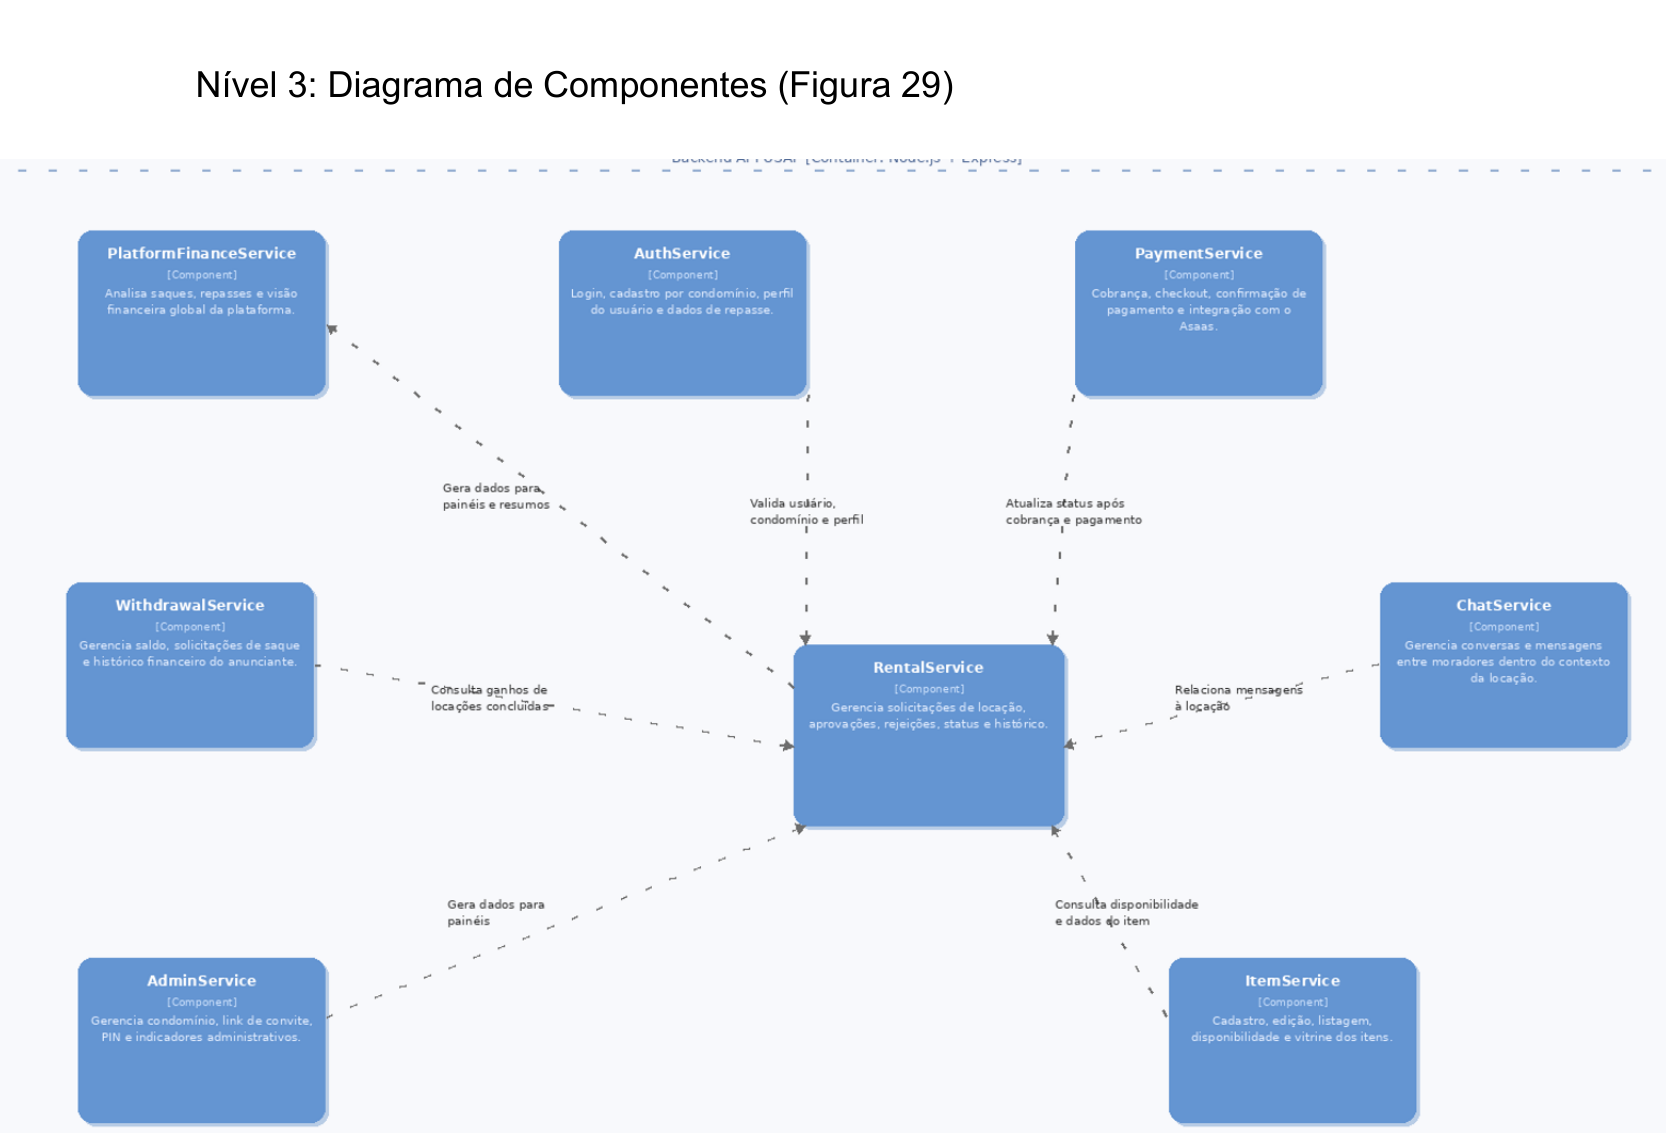
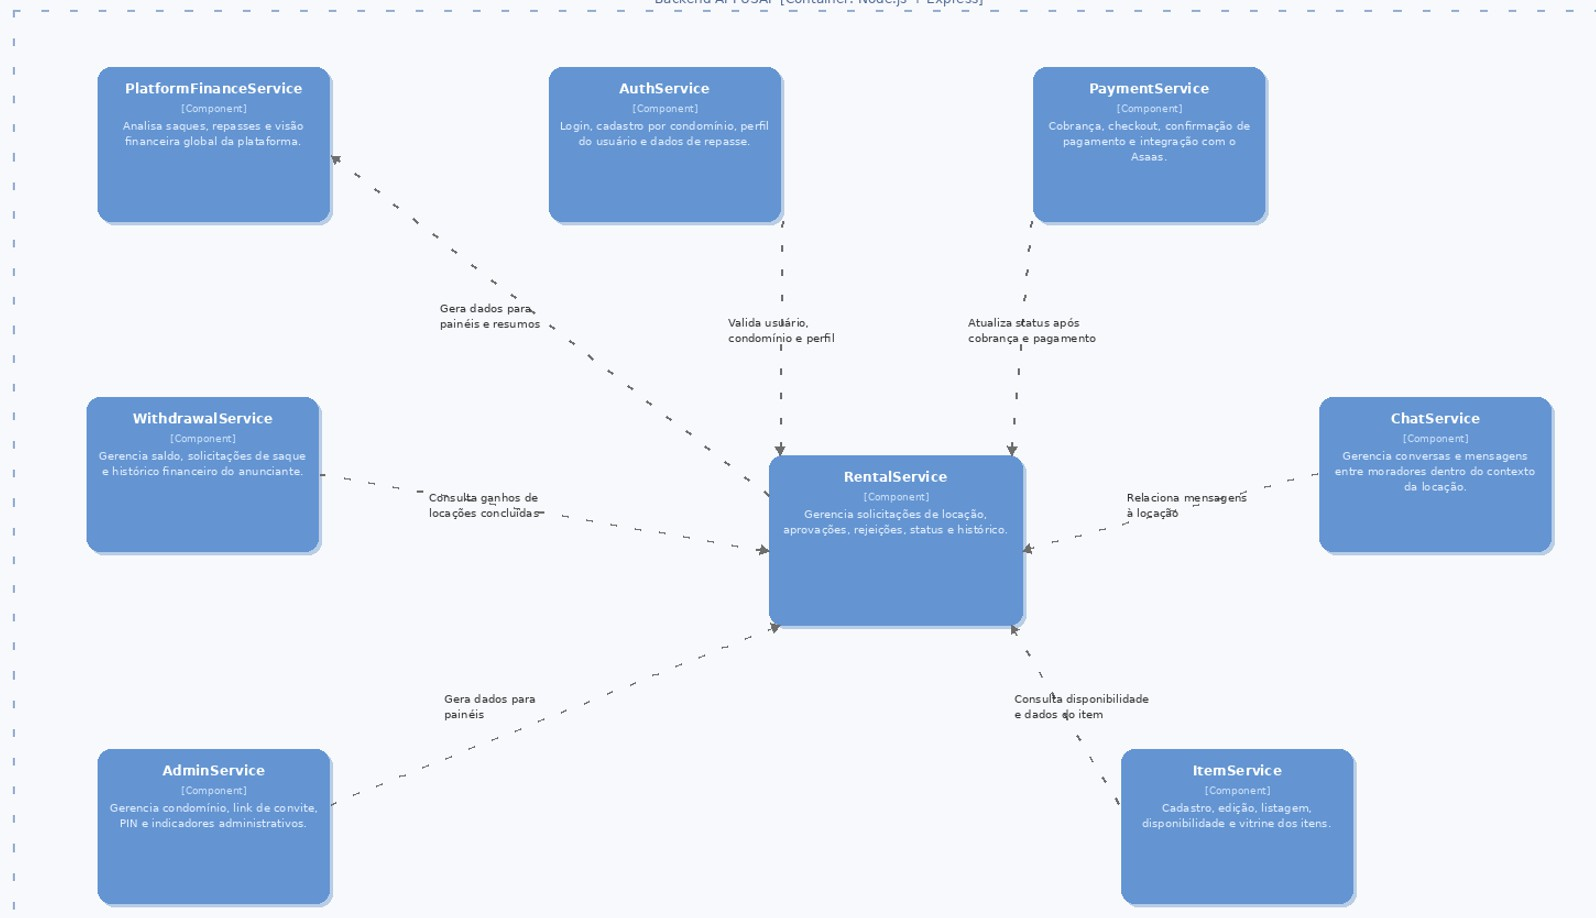
docs: adiciona as 30 figuras da RFC como arquivos versionados
Extraídas diretamente do .docx original (qualidade nativa, não recorte
de PDF), organizadas em docs/rfc/figuras/ com um índice (README.md)
trazendo título e resumo de cada uma. Substitui também as 3 imagens C4
já existentes em docs/architecture/ pelas versões nativas, mais nítidas
que as recortadas do PDF anteriormente.

Prepara o terreno para tirar as imagens embutidas do corpo do .docx da
RFC (cada uma vira um link pra cá), deixando o documento bem mais leve.

diff --git a/docs/rfc/figuras/README.md b/docs/rfc/figuras/README.md
@@ -1,0 +1,73 @@
+# Figuras da RFC
+
+As 30 figuras citadas na RFC (`TCC-FINAL_assinado2.pdf`, v1.1) vivem aqui, fora do documento — o
+corpo da RFC referencia cada uma por título e link, em vez de embutir a imagem. Objetivo: manter o
+`.docx`/`.pdf` leve e fácil de revisar, com as imagens versionadas normalmente no git.
+
+As Figuras 27–29 (modelo C4) moram em [`docs/architecture/`](../../architecture/), que já tem uma
+página própria por nível, com o texto explicativo ao lado do diagrama — aqui elas só aparecem
+listadas, com link pra lá.
+
+## 3.1 — Fluxos Principais
+
+| Figura | Título | Resumo |
+|---|---|---|
+| [1](figura-01.png) | Fluxo 1 — Primeiro Acesso ao Condomínio | Morador acessa link exclusivo, informa PIN, cria conta e é vinculado ao condomínio automaticamente. |
+| [2](figura-02.png) | Fluxo 2 — Publicação de Item | Morador preenche título, descrição, categoria, valor e imagens; item é publicado no catálogo. |
+| [3](figura-03.png) | Fluxo 3 — Solicitação e Aprovação da Locação | Locatário seleciona item e período; proprietário aprova ou rejeita. |
+| [4](figura-04.png) | Fluxo 4 — Máquina de Estados da Locação | Pendente → Aprovada → Paga → Em Andamento → Concluída, com cancelamento a partir de Pendente ou Aprovada. |
+| [5](figura-05.png) | Fluxo 5 — Fluxo Financeiro e Saque | Locação paga gera ganho no saldo do proprietário; saque é analisado pelo Admin USAI. |
+| [6](figura-06.png) | Fluxo 6 — Gestão do Condomínio | Síndico visualiza link/PIN, altera o PIN e acompanha as locações ativas. |
+| [7](figura-07.png) | Fluxo 7 — Fluxos de Exceção | Tratamento dos principais cenários de erro (PIN inválido, item indisponível, saldo insuficiente, etc.). |
+| [8](figura-08.jpeg) | Fluxo 8 — Arquitetura Conceitual dos Perfis | Visão geral dos perfis de usuário, módulos do sistema e integração com o Asaas. |
+| [9](figura-09.png) | Fluxo 9 — Painel Administrativo USAI | As quatro áreas do Admin: Financeiro Global, Gestão de Saques, Condomínios e Relatórios. |
+
+## 3.2 — Diagramas de Atividade
+
+| Figura | Título | Resumo |
+|---|---|---|
+| [10](figura-10.jpeg) | Diagrama de Atividade — Morador | Fluxo principal de ações do morador na plataforma. |
+| [11](figura-11.png) | Diagrama de Atividade — Síndico | Ações disponíveis para o síndico gerenciar o condomínio. |
+| [12](figura-12.png) | Diagrama de Atividade — Financeiro e Saque | Ganho, cadastro de chave Pix e solicitação de repasse. |
+
+## 3.3 — Diagramas de Sequência
+
+| Figura | Título | Resumo |
+|---|---|---|
+| [13](figura-13.jpeg) | Diagrama de Sequência — Primeiro Acesso | Interações entre os componentes durante o primeiro acesso do morador. |
+| [14](figura-14.jpeg) | Diagrama de Sequência — Locação e Pagamento | Fluxo de solicitação, aprovação e pagamento de uma locação. |
+| [15](figura-15.jpeg) | Diagrama de Sequência — Saque do Proprietário | Solicitação e processamento de saque pelo proprietário. |
+| [16](figura-16.jpeg) | Diagrama de Sequência — Repasse pelo Admin USAI | Fluxo de repasse financeiro realizado pelo Admin USAI. |
+
+## 4.1 — Mockups (UX)
+
+> Mockups originais da v1.1. O visual efetivamente implementado é diferente — ver a
+> [identidade visual v2.0](https://github.com/gustavovieiira/TCC-USAI2.0/wiki/Decisoes-Tecnicas) e
+> capturas de tela reais na Wiki.
+
+| Figura | Título | Resumo |
+|---|---|---|
+| [17](figura-17.jpeg) | Tela — Página principal do morador | Painel com banner de boas-vindas e atalhos de "Explorar itens" / "Publicar novo item". |
+| [18](figura-18.jpeg) | Tela — Catálogo de itens (Vitrine do condomínio) | Busca e listagem de itens disponíveis no condomínio. |
+| [19](figura-19.jpeg) | Tela — Chats | Lista de conversas abertas, com item relacionado e prévia da última mensagem. |
+| [20](figura-20.jpeg) | Tela — Anunciar item | Publicação de itens, com indicadores de itens ativos/com foto/valor base. |
+| [21](figura-21.jpeg) | Tela — Acompanhamento de locações | Contadores de locações aguardando aprovação, ativas, pedidos em aberto e ganhos concluídos. |
+| [22](figura-22.jpeg) | Tela — Área financeira do morador | Ganhos e saques do morador. |
+| [23](figura-23.jpeg) | Tela — Painel de gestão do síndico | Controle de acessos e organização de quem entra na plataforma. |
+| [24](figura-24.jpeg) | Tela — Configurações do condomínio | Visibilidade e controle sobre usuários cadastrados e anúncios publicados. |
+| [25](figura-25.jpeg) | Tela — Dashboard financeiro do Admin USAI | Volume total recebido, saques pendentes/pagos e taxa da plataforma. |
+| [26](figura-26.jpeg) | Tela — Painel de saques pendentes | Lista de solicitações com dados do recebedor, valor, chave Pix e status. |
+
+## 5.1 — Modelo C4
+
+| Figura | Título | Onde está |
+|---|---|---|
+| 27 | Diagrama C4 — Nível 1: Diagrama de Contexto | [`docs/architecture/c4-contexto.md`](../../architecture/c4-contexto.md) |
+| 28 | Diagrama C4 — Nível 2: Diagrama de Containers | [`docs/architecture/c4-containers.md`](../../architecture/c4-containers.md) |
+| 29 | Diagrama C4 — Nível 3: Diagrama de Componentes | [`docs/architecture/c4-componentes.md`](../../architecture/c4-componentes.md) |
+
+## 5.2 — Modelo de Dados
+
+| Figura | Título | Resumo |
+|---|---|---|
+| [30](figura-30.jpeg) | Modelo de Dados da plataforma USAI | Entidades e relacionamentos do banco (v1.1 — ver nota de atualização no RFC sobre os modelos adicionados depois: Post, ComentarioPost, ConversaPrivada, MensagemPrivada). |
